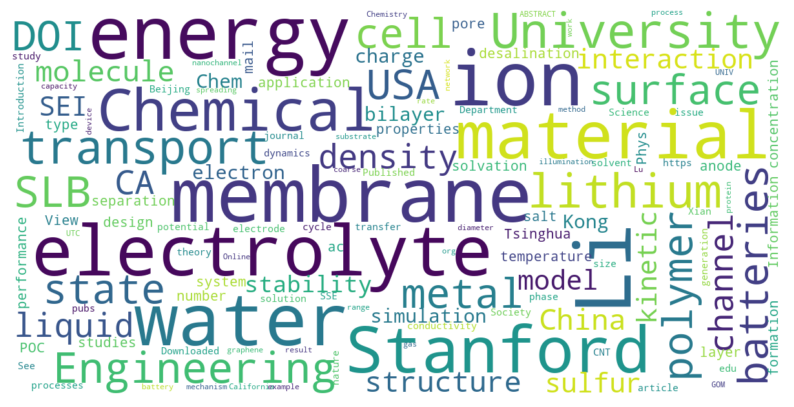
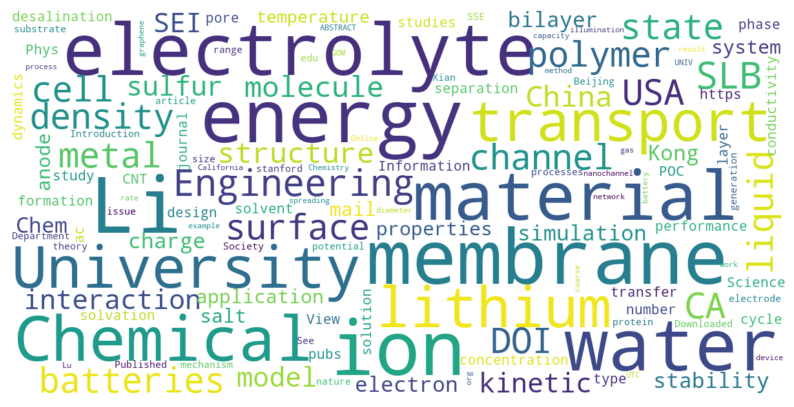
updated members

diff --git a/markdown_generator/pubwordcloud.py b/markdown_generator/pubwordcloud.py
@@ -3,6 +3,7 @@
 import matplotlib.pyplot as plt
 import string
 import re
+import os
 import glob
 import wordcloud
 import pdftotext
@@ -56,6 +57,10 @@ class research_wordcloud():
             #print(page)
             self.texts += page.extract_text() + "\n"
             print('extracted text from: ',pdf_file)
+
+        output_file = os.path.join('./', 'pubText.txt')
+        with open(output_file, 'w', encoding='utf-8') as f:
+            f.write(self.texts)
 
     def extract_text_old(self):
         '''

diff --git a/_pages/member.md b/_pages/member.md
@@ -194,7 +194,7 @@ redirect_from:
     <p style="font-size: 15px; line-height: 1; line-height: 0.5;font-weight:bold;"> 
     何嘉桐 (Jiatong He)  </p>
     <p style="font-size: 15px; line-height: 1; line-height: 0.5;font-weight:bold;"> 
-    2023级 本科生  </p>
+    2022级 本科生  </p>
     <p style="font-size: 15px; line-height: 1; line-height: 0.5;font-weight:bold;"> 
     Email: 202264641184@mail.scut.edu.cn  </p>
   </div>
